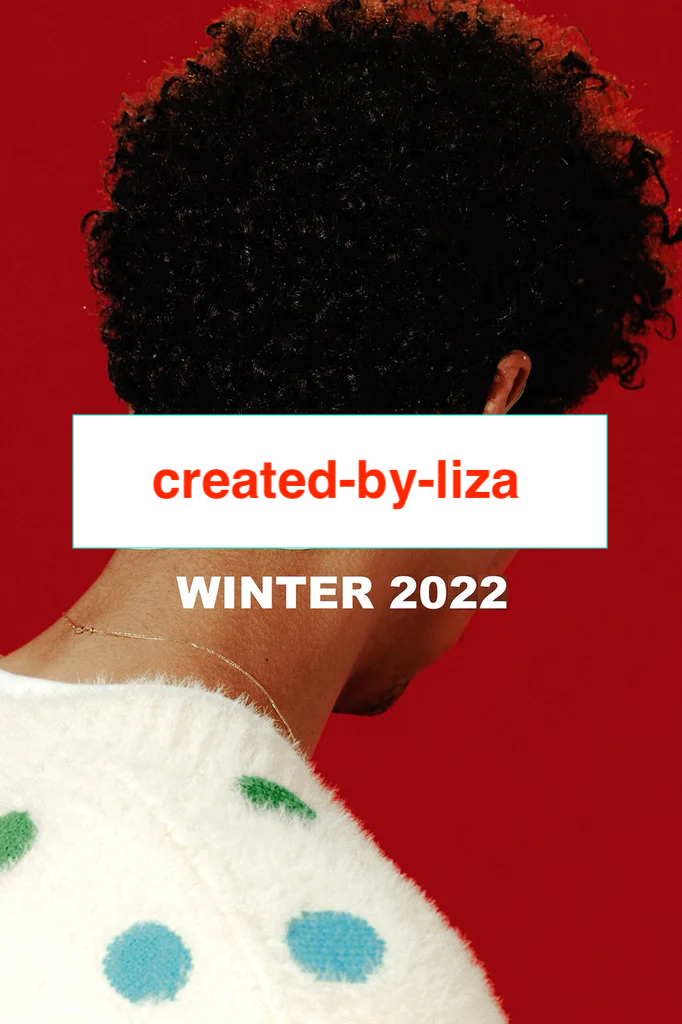
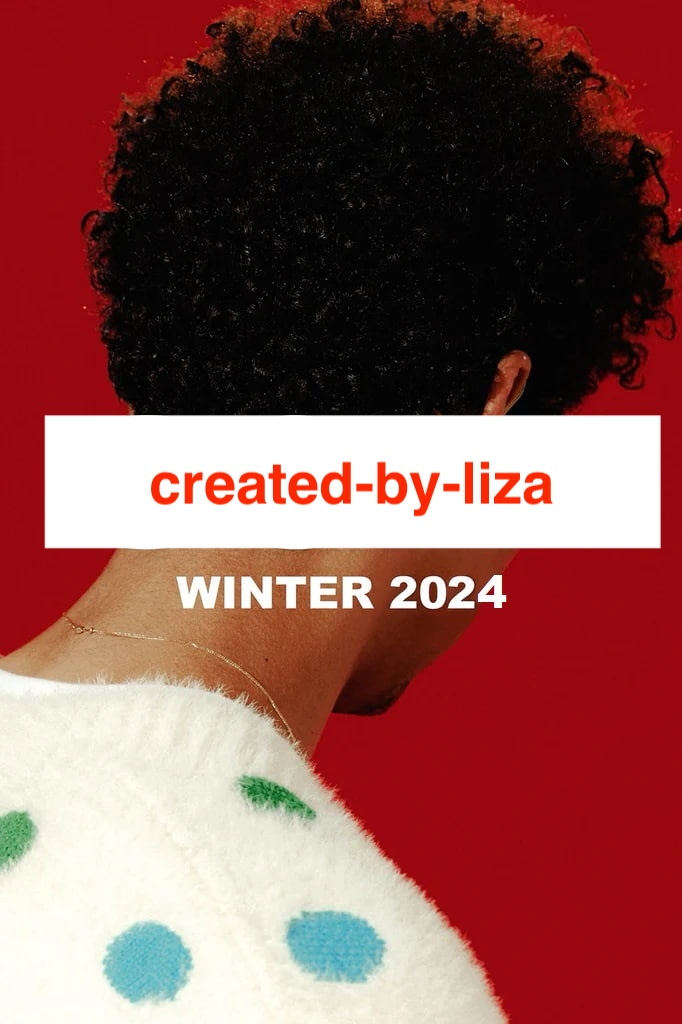
update image, link

diff --git a/nest-app/public/js/next_previous_buttons.js b/nest-app/public/js/next_previous_buttons.js
@@ -16,5 +16,5 @@ nextButton.addEventListener('click', () => {
 });
 
 function redirect(page) {
-  window.location.href = `https://crbpavel.onrender.com/products/page/${page}`;
+  window.location.href = `https://shop-1ro8.onrender.com/products/page/${page}`;
 }
